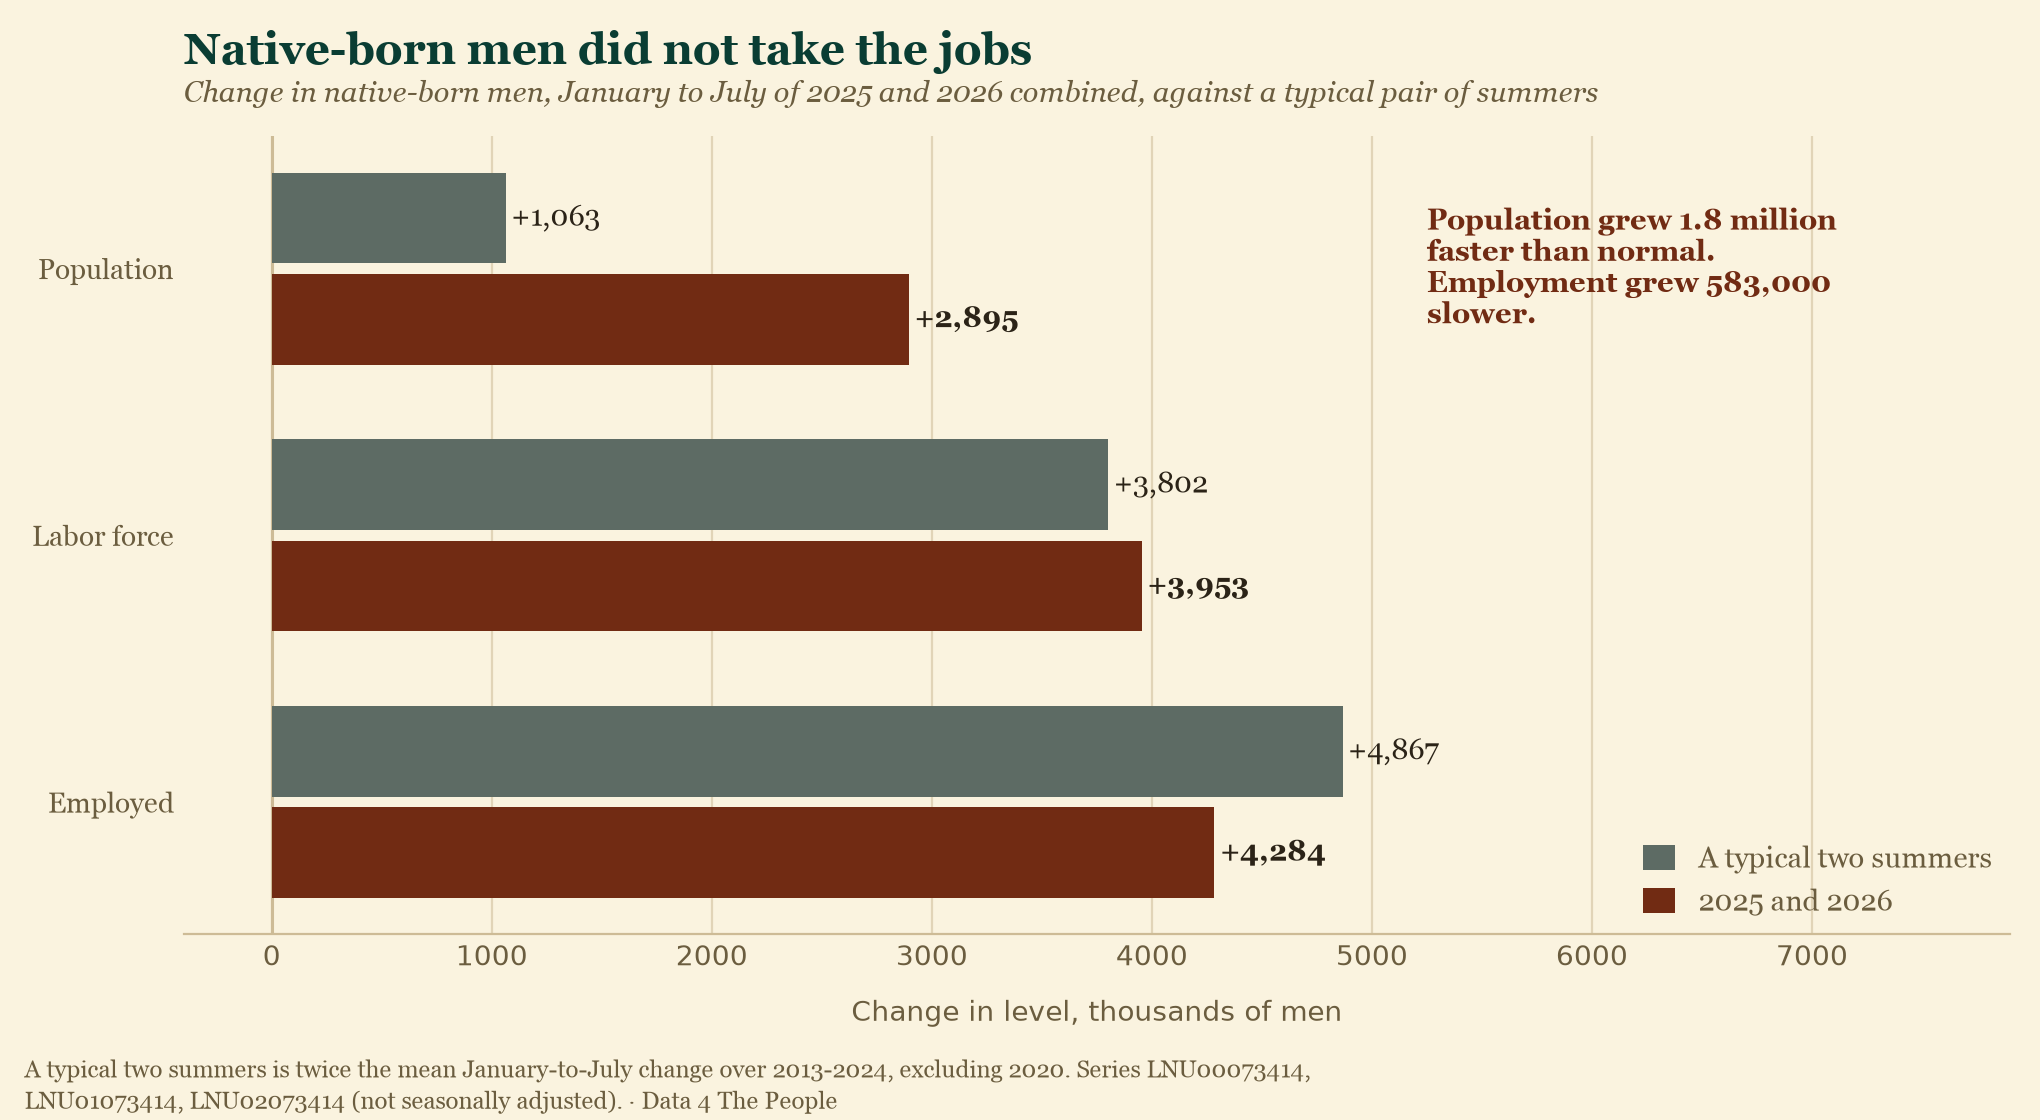
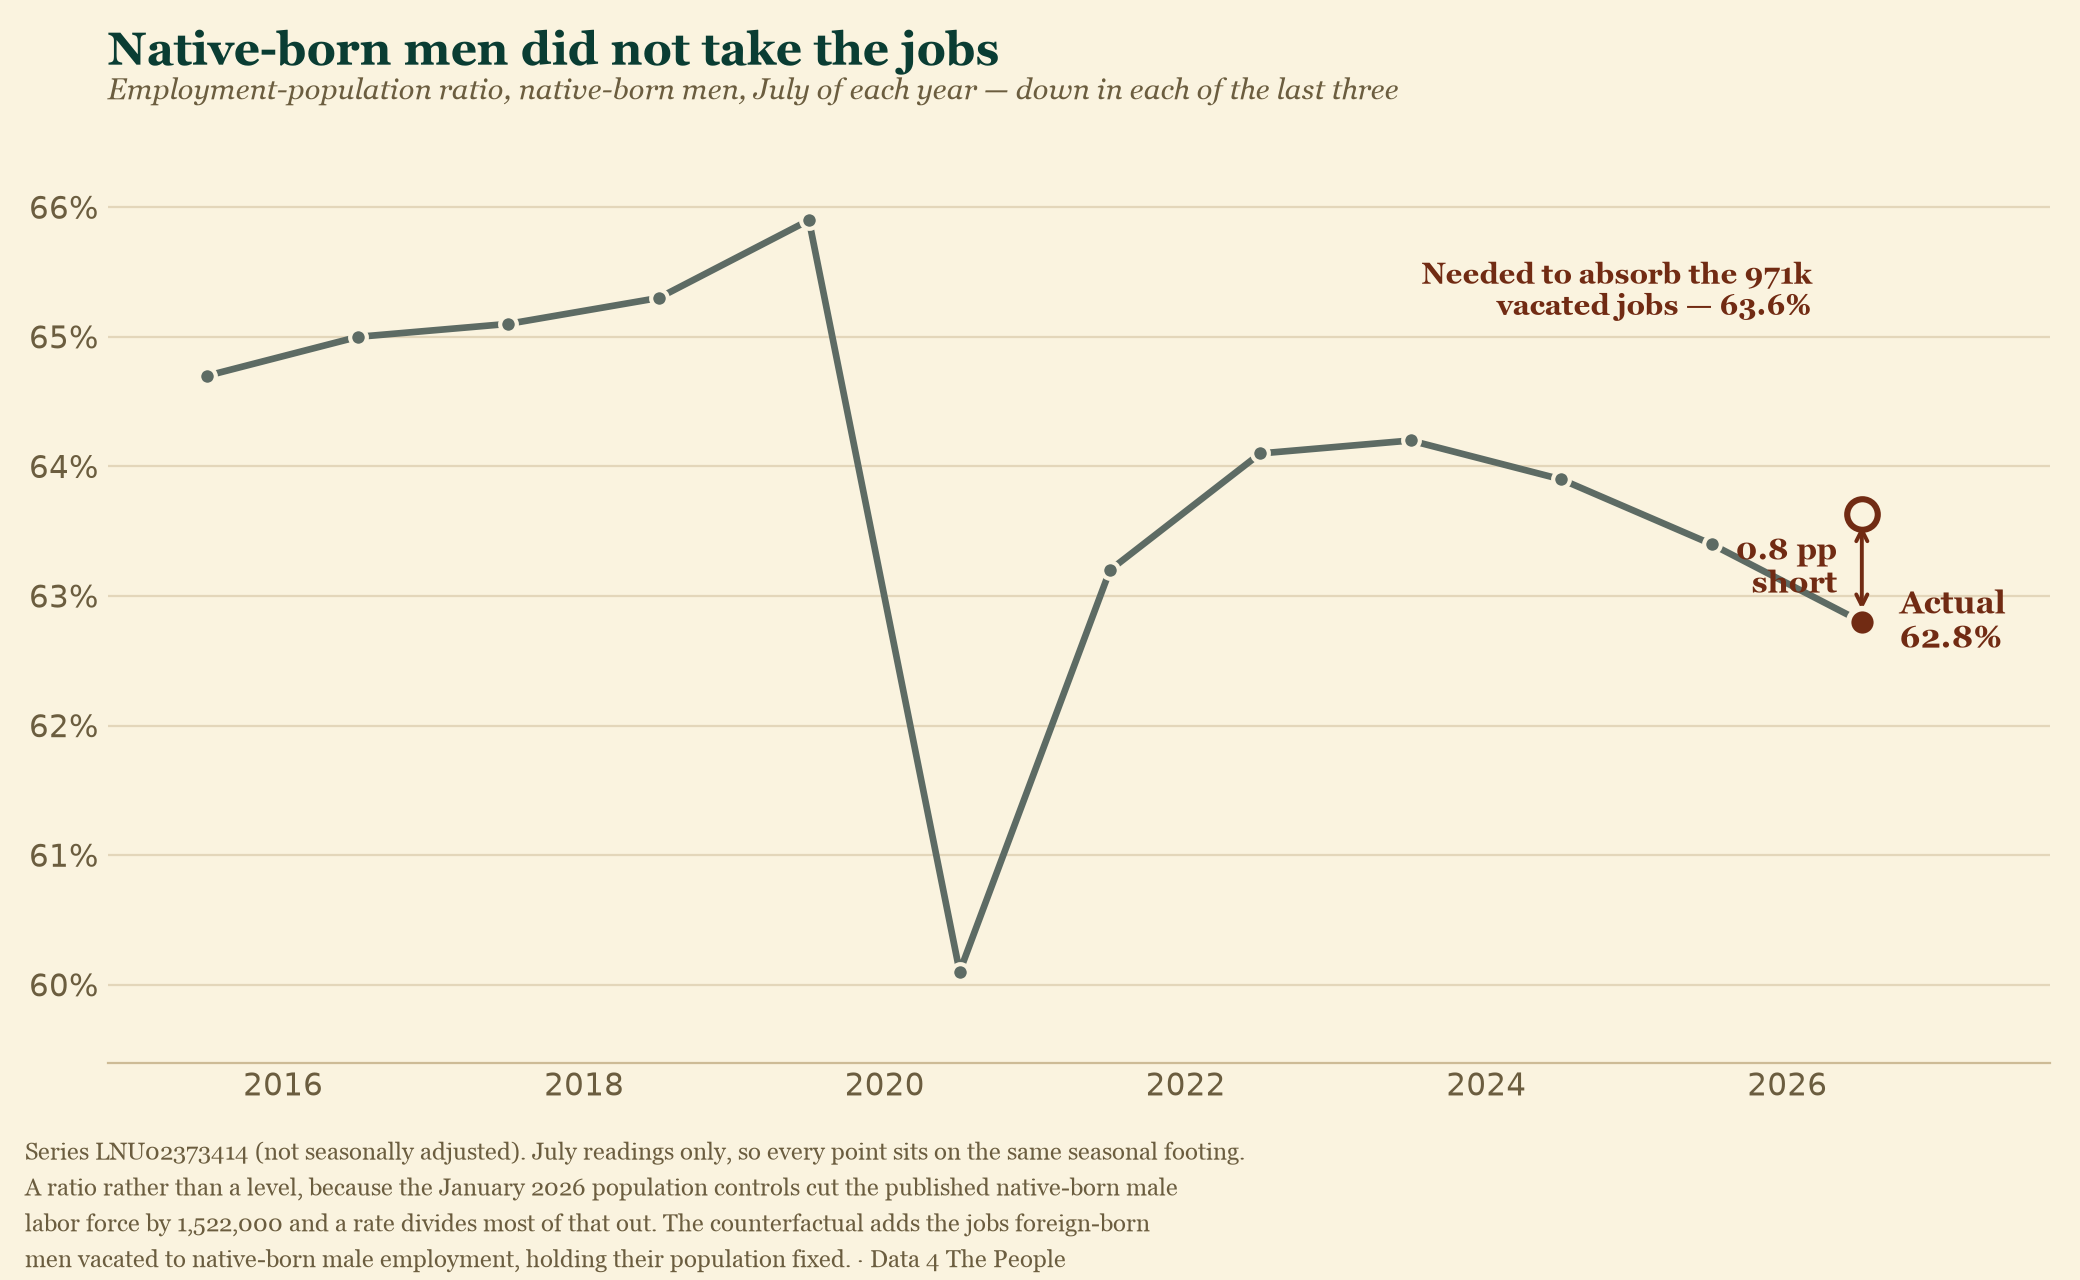
Frame the native-born section as the second falsification test
The other half of the prevailing story -- that immigrants take native-born jobs
-- is testable, and the last two years handed it the cleanest test it will get.
More than two million foreign-born men are gone and roughly a million jobs they
held went with them. If those jobs had been taken from native-born men they are
now unheld and available to be taken back. They were not.

Native-born men's employment-population ratio has fallen in each of the last
three Julys, from 64.2% in 2023 to 62.8% now. Absorbing the 971,000 vacated jobs
would require 63.6%. More native-born men of working age than ever, and a
smaller share of them working, is the precise opposite of getting jobs back.

Rebuilds chart_not_filled on the employment rate rather than levels. The
previous grouped-levels version was inconsistent with this repo's own
methodology note: the January 2026 controls cut the published native-born male
labor force by 1,522,000, so their levels cannot be read across that seam, and
the section that leans hardest on native-born numbers was the one still using
them. A ratio divides most of the revision out. The claim then holds on three
further measures that are also robust to it: a twelve-month average of the ratio
(63.6 -> 62.3 across four readings), employment growth against population growth
(+382,000 against +2,556,000 from July 2024), and the January-to-July
participation rise (+0.9 against a typical +1.5, with 2025 and 2026 the two
smallest in twenty years outside 2020).
[…]

diff --git a/analysis/foreign-born-men/make_charts.py b/analysis/foreign-born-men/make_charts.py
@@ -315,25 +315,80 @@ def chart_where_they_went(t, norm):
         xlim=(-2100, 1300))
 
 
-def chart_not_filled(t, norm):
-    cats = ["Population", "Labor force", "Employed"]
-    keys = ["NBM_pop", "NBM_clf", "NBM_emp"]
-    a = [t.loc[list(WINDOWS), c].sum() for c in keys]
-    n = [2 * norm[c] for c in keys]
-    _grouped(
-        OUT / "chart_not_filled.png",
-        "Native-born men did not take the jobs",
-        "Change in native-born men, January to July of 2025 and 2026 combined, "
-        "against a typical pair of summers",
-        cats, a, n, "Change in level, thousands of men",
-        ["A typical two summers is twice the mean January-to-July change over "
-         "2013-2024, excluding 2020. Series LNU00073414,",
-         "LNU01073414, LNU02073414 (not seasonally adjusted). "
-         "· Data 4 The People"],
-        note="Population grew 1.8 million\nfaster than normal.\n"
-             "Employment grew 583,000\nslower.",
-        note_xy=None, note_xytext=(5250, 0.0),
-        xlim=(-400, 7900), figsize=(10.2, 5.6), legend_loc="lower right")
+def chart_not_filled(w, t, norm):
+    """Native-born men's employment rate against what filling the gap needed.
+
+    A rate, not a level, and deliberately so. The January 2026 population
+    controls cut the published native-born male labor force by 1,522,000, so
+    their levels cannot be compared across that seam. A ratio divides most of
+    that out -- numerator and denominator move together -- which is why this
+    chart, and the claims that rest on it, use the employment-population ratio.
+
+    July-only, so every point sits on the same seasonal footing: these series
+    are published unadjusted and a summer reading is not comparable to a
+    winter one.
+    """
+    jul = w[w.index.month == 7].loc["2015":]
+    s_ = jul.NBM_epop
+    lost = -t.loc[list(WINDOWS), "FBM_emp"].sum()      # jobs actually vacated
+    need = (w.NBM_emp[LAST] + lost) / w.NBM_pop[LAST] * 100
+
+    fig, ax = plt.subplots(figsize=(10.4, 6.4))
+    ax.set_facecolor(PARCH); fig.patch.set_facecolor(PARCH)
+    ax.plot(s_.index, s_.values, color=BASE, lw=2.4, zorder=3, marker="o", ms=6,
+            markeredgecolor=PARCH, markeredgewidth=1.5)
+    ax.plot([s_.index[-1]], [s_.iloc[-1]], "o", color=HILITE, ms=10, zorder=5,
+            markeredgecolor=PARCH, markeredgewidth=2)
+    ax.plot([s_.index[-1]], [need], "o", color=HILITE, ms=11, zorder=5,
+            markerfacecolor=PARCH, markeredgecolor=HILITE, markeredgewidth=2.2)
+    ax.annotate("", xy=(s_.index[-1], need - 0.05),
+                xytext=(s_.index[-1], s_.iloc[-1] + 0.05),
+                arrowprops=dict(arrowstyle="<->", color=HILITE, lw=1.4))
+    ax.text(s_.index[-1] - pd.DateOffset(months=4), 65.35,
+            f"Needed to absorb the {lost:,.0f}k\nvacated jobs — {need:.1f}%",
+            fontsize=10.5, family=SERIF, color=HILITE, fontweight="bold",
+            ha="right", va="center")
+    ax.text(s_.index[-1] + pd.DateOffset(months=3), s_.iloc[-1],
+            f"Actual\n{s_.iloc[-1]:.1f}%", fontsize=11.5, family=SERIF,
+            color=HILITE, fontweight="bold", ha="left", va="center")
+    ax.text(s_.index[-1] - pd.DateOffset(months=2), (need + s_.iloc[-1]) / 2,
+            f"{need - s_.iloc[-1]:.1f} pp\nshort", fontsize=11, family=SERIF,
+            color=HILITE, fontweight="bold", ha="right", va="center")
+    # The run of declines lives in the subtitle rather than as a
+    # callout: every anchor that reaches clear space here crosses either the
+    # line or the counterfactual label.
+
+    ax.set_ylim(59.4, 66.5)
+    ax.set_xlim(s_.index[0] - pd.DateOffset(months=8),
+                s_.index[-1] + pd.DateOffset(months=15))
+    ax.yaxis.set_major_formatter(lambda v, _: f"{v:.0f}%")
+    for sp in ("top", "right", "left"):
+        ax.spines[sp].set_visible(False)
+    ax.spines["bottom"].set_color(GRID)
+    ax.tick_params(colors=MUTED, labelsize=11, length=0)
+    ax.yaxis.grid(True, color=GRID, lw=0.8, alpha=0.5)
+    ax.set_axisbelow(True)
+    ax.set_title("Native-born men did not take the jobs",
+                 color="#0a3d33", fontsize=16.5, fontweight="bold",
+                 family=SERIF, loc="left", pad=28)
+    ax.text(0, 1.04, "Employment-population ratio, native-born men, July of "
+            "each year — down in each of the last three",
+            transform=ax.transAxes, color=MUTED, fontsize=10.5,
+            style="italic", family=SERIF, va="bottom")
+    source(fig, ["Series LNU02373414 (not seasonally adjusted). July readings "
+                 "only, so every point sits on the same seasonal footing.",
+                 "A ratio rather than a level, because the January 2026 "
+                 "population controls cut the published native-born male",
+                 "labor force by 1,522,000 and a rate divides most of that out. "
+                 "The counterfactual adds the jobs foreign-born",
+                 "men vacated to native-born male employment, holding their "
+                 "population fixed. · Data 4 The People"])
+    fig.tight_layout(rect=(0, 0.115, 1, 1))
+    p = OUT / "chart_not_filled.png"
+    fig.savefig(p, dpi=200, facecolor=PARCH)
+    plt.close(fig)
+    print(f"wrote {p}  (actual {s_.iloc[-1]:.1f}%, needed {need:.2f}%, "
+          f"short {need-s_.iloc[-1]:.2f}pp)")
 
 
 # --------------------------------------------------------------------------
@@ -542,6 +597,6 @@ if __name__ == "__main__":
                figsize=(8.4, 5.4), fs=0.78)
     chart_ranking(t)
     chart_where_they_went(t, norm)
-    chart_not_filled(t, norm)
+    chart_not_filled(w, t, norm)
     chart_divergence(w)
     tables(t, norm)

diff --git a/analysis/foreign-born-men/POST.md b/analysis/foreign-born-men/POST.md
@@ -158,38 +158,52 @@ or being counted less well — would pull women down alongside men. Whatever is
 happening here is happening to men and not to women, and any explanation has to
 account for that.
 
-## Native-born men did not fill the gap
+## "They're taking our jobs." Test that one too.
 
-The obvious next question: if roughly a million jobs were vacated, did
-native-born men take them?
+The other half of what we are told is simpler still: immigrants take jobs from
+native-born Americans. Ours. Taken.
 
-This is where the comparison does double duty. Native-born men live through the
-same summers, the same seasons, the same economy. If the seasonal pattern or the
-business cycle were driving the foreign-born numbers, it would show up in the
-native-born numbers too.
+That is testable as well — and it has just been handed the cleanest test it is
+ever going to get. More than two million foreign-born men are gone from the
+count. Roughly a million jobs they were holding went with them. If those jobs
+had been taken from native-born men, they are now sitting there, unheld,
+waiting to be taken back.
 
-It does not.
+So did native-born men step into them?
+
+**No.**
 
 ![Native-born men did not take the jobs](chart_not_filled.png)
 
-Native-born men's population grew by 2,895,000 across these two summers, against
-a typical 1,063,000 — **1.8 million faster than normal.** Their labor force grew
-3,953,000 against a typical 3,802,000, essentially dead on.
+Native-born men's employment-population ratio has fallen in **each of the last
+three Julys**: from 64.2% in 2023 to 63.9%, then 63.4%, and now **62.8%**. To have absorbed the 971,000
+jobs foreign-born men vacated, it would have to be **63.6%**. It is eight-tenths
+of a point below that, and moving the wrong way.
 
-And their employment grew 4,284,000 against a typical 4,867,000 — **583,000
-slower than normal.**
+We are deliberately using a rate here rather than a headcount. The January 2026
+population controls cut the published native-born male labor force by 1,522,000
+in a single month, so their levels cannot be read across that seam. A ratio
+divides most of that out. And the rate says the same thing on every measure we
+tried:
 
-Read those together. Native-born men arrived in the working-age population far
-faster than usual, and got jobs *more slowly* than usual. Their participation
-rate rose 0.9 points from January to July 2026 against a typical 1.5 — the
-smallest January-to-July rise on record except 2020.
+- On a **twelve-month average of the ratio**, which is immune to both
+  seasonality and most of the control revision, native-born men have gone 63.6%
+  → 63.3% → 62.9% → 62.3% across those same four readings, including −0.6 points
+  in the year to July 2026 alone.
+- **Employment is not keeping up with population.** Between July 2024 and July
+  2026 the native-born male population grew 2,556,000. Their employment grew
+  382,000.
+- **Participation is rising more slowly than it ever has**, outside the
+  pandemic. From January to July 2026 the native-born male participation rate
+  rose 0.9 points against a typical 1.5. The two smallest January-to-July rises
+  in twenty years of data are 2025 and 2026.
 
-Whatever absorbed those vacated jobs, it was not native-born men entering work
-at a higher rate. There is no sign of them stepping in at all.
+More native-born men of working age than ever, and a smaller share of them
+working. That is the precise opposite of what "getting our jobs back" would look
+like in the data.
 
-![Two summers, measured without crossing a population-control seam](table_flows.png)
-
----
+The jobs were not transferred. They were subtracted. Nobody took them back,
+because nobody had taken them in the first place.
 
 ## What this does not tell you
 

diff --git a/analysis/foreign-born-men/METADATA.md b/analysis/foreign-born-men/METADATA.md
@@ -98,11 +98,12 @@ below is the one that does modern work.
 
 **chart_not_filled.png**
 
-> Grouped bar chart comparing the change in native-born men across the summers of
-> 2025 and 2026 against a typical pair of summers. Population grew 2,895,000
-> against a typical 1,063,000. The labor force grew 3,953,000 against a typical
-> 3,802,000. Employment grew 4,284,000 against a typical 4,867,000 — 583,000
-> slower than normal.
+> Line chart of the employment-population ratio for native-born men, July of each
+> year from 2015 to 2026. The ratio falls from 65.9 percent in July 2019 to 60.1
+> percent in July 2020, recovers to 64.2 percent by 2023, then declines in each of
+> the last three years, from 64.2 percent in 2023 to 62.8 percent in July 2026. A hollow marker at 63.6 percent
+> marks where the ratio would need to sit for native-born men to have absorbed
+> the 971,000 jobs foreign-born men vacated — 0.8 points above the actual figure.
 
 **chart_divergence.png**
 
